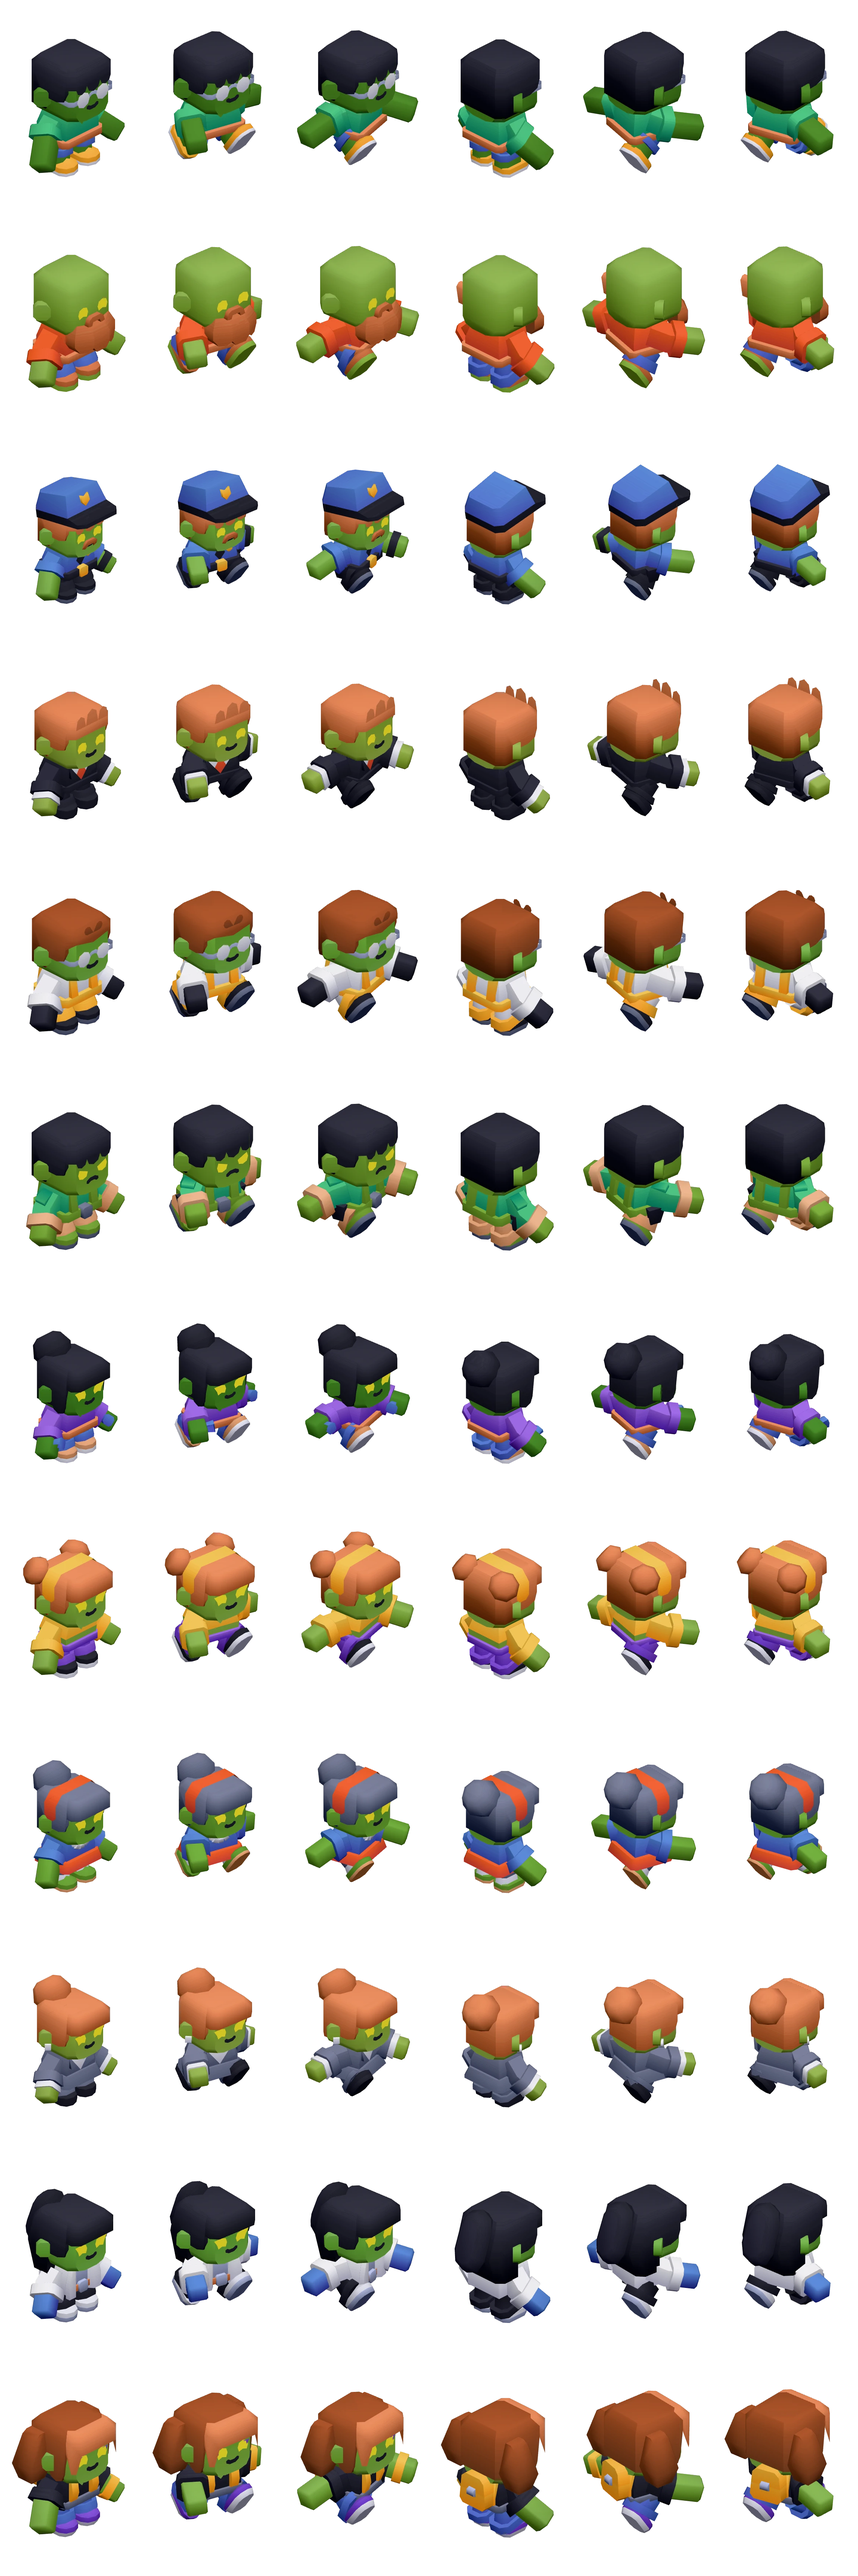
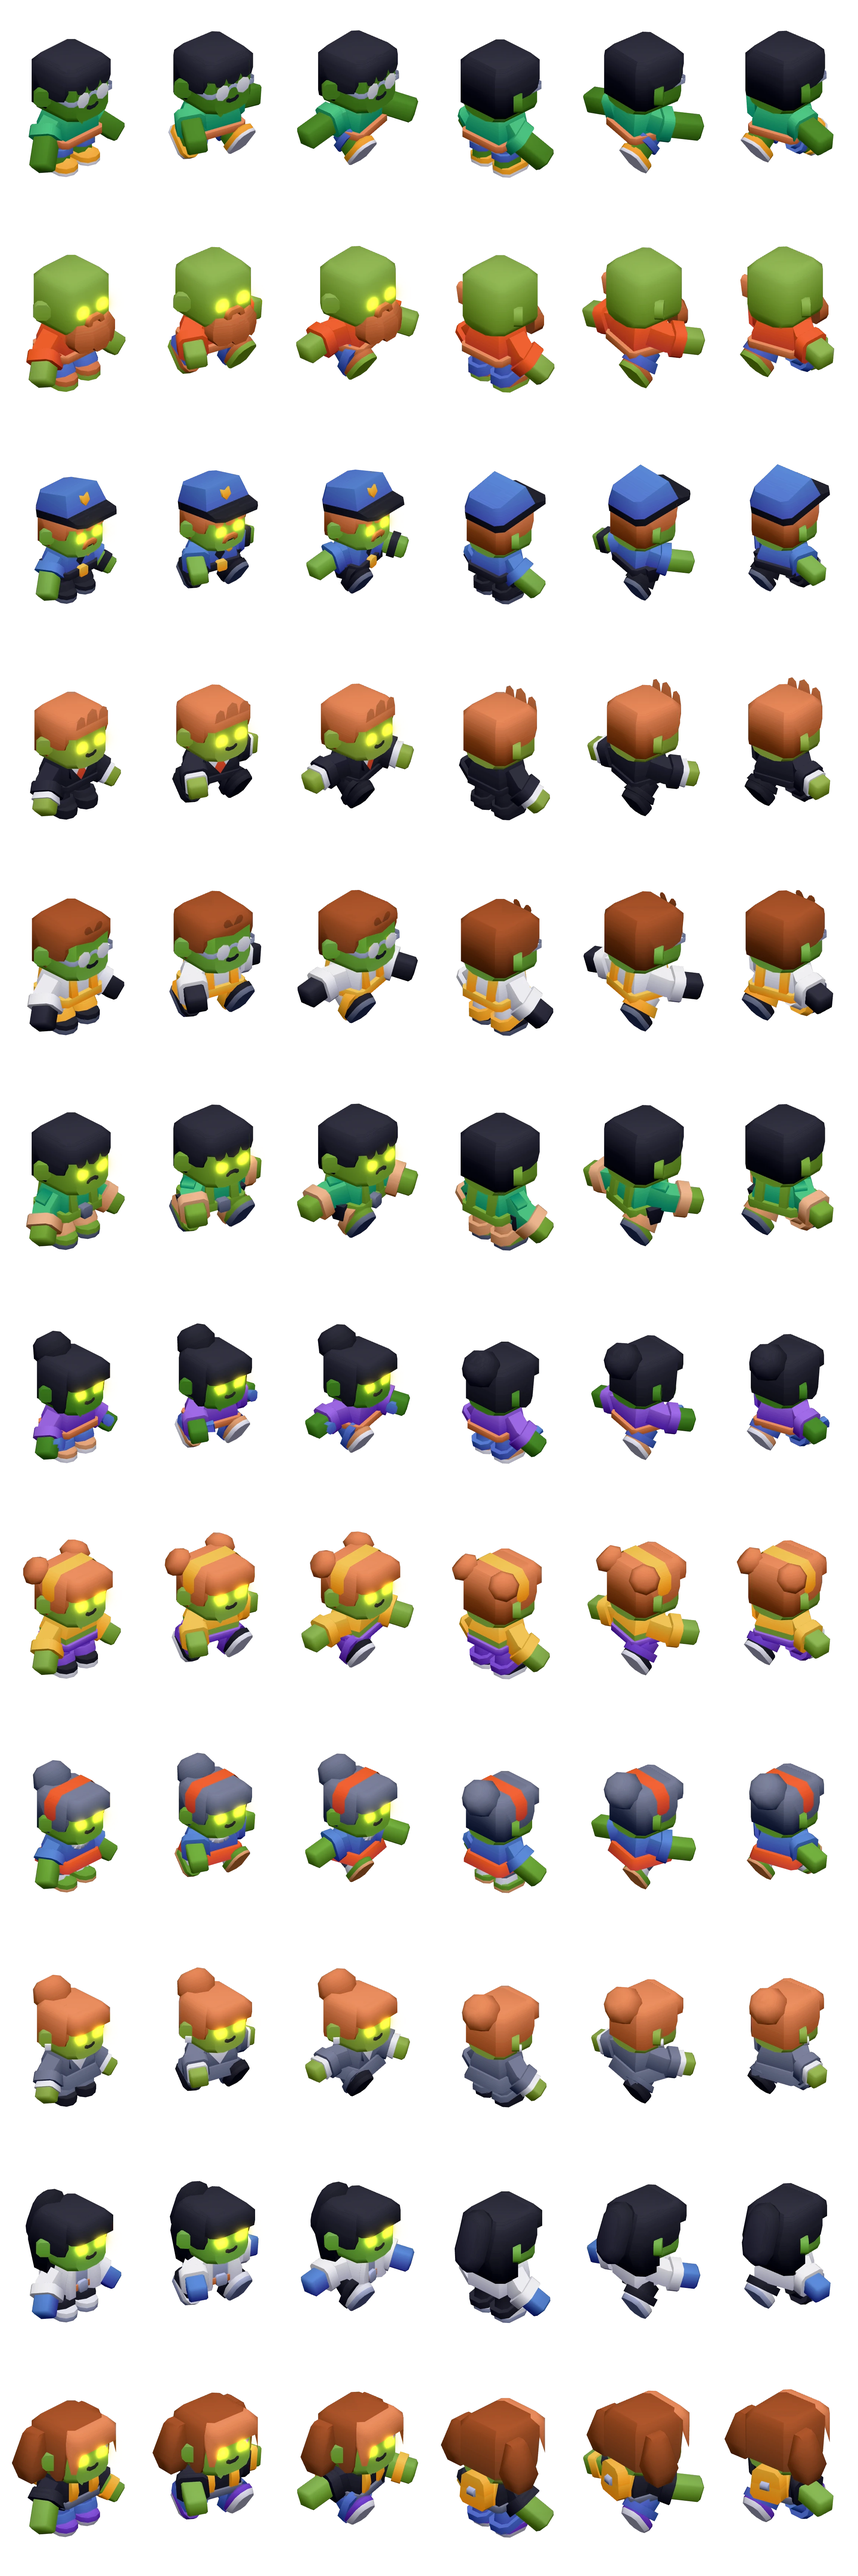
Ojos de los personajes con luz neón amarilla en la hoja de retratos y sprites (y hoja de serie regenerada)
Claude-Session: https://claude.ai/code/session_01EHHKZnjyesYxRjuSqf66QR

diff --git a/src/editor/characterSheet.ts b/src/editor/characterSheet.ts
@@ -179,6 +179,46 @@ function dropProps(mesh: THREE.Mesh, id: string) {
 export type Loaded = { root: THREE.Object3D; clips: THREE.AnimationClip[] };
 let loading: Promise<Loaded[]> | null = null;
 
+/**
+ * Luz neón amarilla en los ojos: en la casilla (x, y, w, h) del dibujo busca los píxeles amarillo vivo (los ojos de `yellowEyes`) y
+ * pinta encima, en suma de luz, esos mismos píxeles muy desenfocados (un halo ancho y otro más pegado) más el núcleo más claro.
+ * Se hace sobre el dibujo ya hecho porque el 3D no tiene resplandor; así vale para los retratos, los sprites y el respaldo de imagen.
+ */
+function eyeGlow(ctx: CanvasRenderingContext2D, x: number, y: number, w: number, h: number) {
+  const img = ctx.getImageData(x, y, w, h);
+  const d = img.data;
+  let n = 0;
+  for (let i = 0; i < d.length; i += 4) {
+    // el amarillo de los ojos ya dibujado es limón (tono 52°-64°); la ropa y el pelo amarillos son más naranjas (tono < 50°), así que no brillan
+    const [r, g, b] = [d[i], d[i + 1], d[i + 2]];
+    const max = Math.max(r, g, b);
+    const min = Math.min(r, g, b);
+    const hue = max === min ? 0 : max === r ? (60 * (g - b)) / (max - min) : max === g ? 60 * (2 + (b - r) / (max - min)) : 60 * (4 + (r - g) / (max - min));
+    const yellow = d[i + 3] > 120 && max > 175 && (max - min) / max > 0.65 && hue >= 52 && hue <= 64;
+    if (yellow) {
+      [d[i], d[i + 1], d[i + 2], d[i + 3]] = [255, 234, 40, 255];
+      n++;
+    } else d[i + 3] = 0;
+  }
+  if (!n) return;
+  const mask = document.createElement("canvas");
+  mask.width = w;
+  mask.height = h;
+  mask.getContext("2d")!.putImageData(img, 0, 0);
+  const s = w / 192; // el dibujo puede ir a doble resolución
+  ctx.save();
+  ctx.beginPath();
+  ctx.rect(x, y, w, h);
+  ctx.clip();
+  ctx.globalCompositeOperation = "lighter";
+  for (const [blur, alpha] of [[9 * s, 0.75], [4.5 * s, 0.9], [2 * s, 0.9]] as const) {
+    ctx.filter = `blur(${blur}px)`;
+    ctx.globalAlpha = alpha;
+    ctx.drawImage(mask, x, y);
+  }
+  ctx.restore();
+}
+
 /** Los 12 personajes ya convertidos en zombi (piel verde y ojos amarillos), con sus animaciones. */
 export function loadAll(): Promise<Loaded[]> {
   loading ??= Promise.all(
@@ -284,6 +324,7 @@ export async function renderCharacterSheet(view: TvView, cw = 192, ch = 288): Pr
         holder.rotation.y = az + turn;
         renderer.render(scene, camera);
         ctx.drawImage(renderer.domElement, (j * 3 + k) * cw, row * ch);
+        if (j === 0) eyeGlow(ctx, (j * 3 + k) * cw, row * ch, cw, ch); // solo de frente: de espaldas no se ven los ojos
       }
     }
     mixer.stopAllAction();

diff --git a/CLAUDE.md b/CLAUDE.md
@@ -351,3 +351,4 @@ El usuario quiere diseñar él mismo el tablero, como en Los Sims o Photoshop, e
 - `TurnChip`: la placa es **más baja que el cuadro del personaje** (`py-1`, ~80 px contra ~94 px del retrato con su anillo; antes `py-2`), pedido del usuario.
 - Nombres sobre las fichas, versión actual (pedido del usuario): el **nombre en blanco, sin contorno de letra**, sobre una **burbuja redondeada negra al 50 % de transparencia** (`.live-name::before`: `rgba(0,0,0,.5)`, `border-radius: 999px`, `z-index: -1`; funciona porque `will-change: transform` crea contexto de apilado) y debajo de la burbuja la **flechita del color del jugador** (`--c`), sin borde oscuro y con un **resplandor neón intenso** (4 `drop-shadow` de 0,12/0,3/0,6/1,1 em en `.live-name::after`). Historial: nombre de color, degradados y contorno oscuro se probaron y se descartaron. El mismo CSS vale para el 3D y el respaldo de imagen (`IsoBoard`).
 - **Nombre sobre el personaje, editable** (pedido del usuario): en el editor, «🧟 Fichas» → sección «Nombre sobre el personaje» (`NamesSection` en `TokensDialog.tsx`, con vista previa que usa el mismo `.live-name`): **tamaño** (50-200 %), **tipo de letra** (las de `NUMBER_FONTS`), **espaciado** (−10 a 30 centésimas de em), **opacidad de la burbuja** (0-100 %) e **intensidad del neón** de la flecha (0-250 %), y «Volver a los valores de serie». Se guarda con el diseño (`BoardLayout.names: NameStyle`, `DEFAULT_NAMES`/`NAME_LIMITS`/`parseNames` en `layout.ts`, con test) y se publica con él (`layout` de `PublishedBoard`). La TV en 3D lo aplica: `liveBoard.ts` pone las variables CSS `--name-font/-spacing/-bubble/-glow` (`nameCssVars`) en el contenedor de los nombres y multiplica el tamaño por `names.size/100`. **Limitación**: el respaldo en imagen (`IsoBoard`, cuando el 3D no carga) no lee el diseño y usa los valores de serie. Un ajuste nuevo del nombre se añade en `NameStyle`, `parseNames`, `nameCssVars` y la sección.
+- **Ojos con luz neón amarilla** (pedido del usuario, retratos del `TurnChip`, marcador, tarjetas y sprites de la TV): `eyeGlow` en `src/editor/characterSheet.ts` se aplica a cada dibujo de **frente** al hacer la hoja (`renderCharacterSheet`): busca los píxeles amarillo-limón de los ojos (tono 52°-64°; la ropa y el pelo amarillos son más naranjas, < 50°, y no brillan) y los suma desenfocados (3 halos) con `globalCompositeOperation: "lighter"`. La hoja de serie `public/art/zombis.webp` se volvió a hacer con `node scripts/characters/sheet.mjs <url del dev>` (`feet`/`span` no cambian). **La hoja publicada se rehace al «Publicar en la TV»**: hasta entonces la TV usa la anterior. Los zombis 3D en vivo (`LiveBoard`) NO llevan este brillo (el 3D no tiene resplandor; sus ojos son amarillos lisos).
